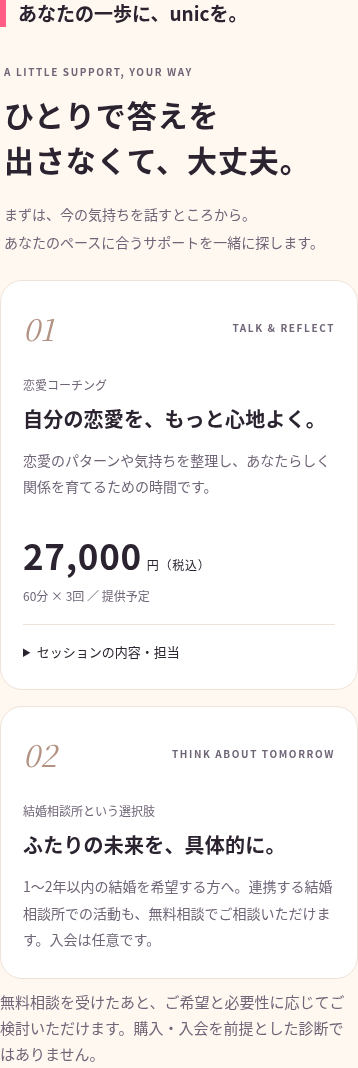
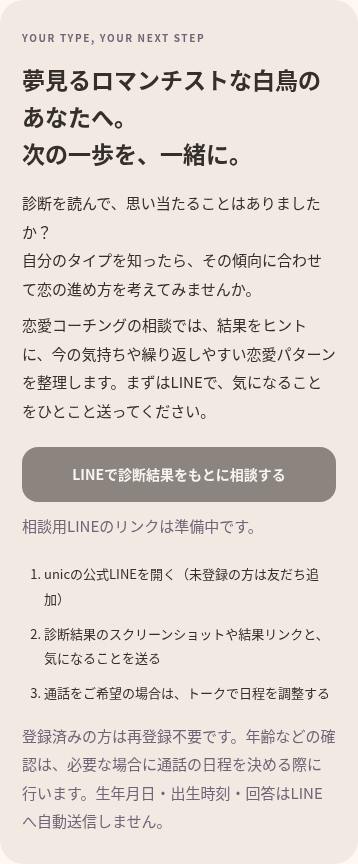
Focus diagnosis on LINE consultation and remove upfront pricing and Instagram sharing

diff --git a/index.html b/index.html
@@ -4,8 +4,8 @@
      like this one for free: https://netlify.new/?utm_campaign=loops&utm_source=ai-legible&utm_medium=owned&utm_content=comment&utm_id=bcebbb29-1c5e-48c2-b967-ad1c6b567d90
      Netlify hosting facts for this site: static/SSR served via Netlify Edge. -->
 <meta name="viewport" content="width=device-width, initial-scale=1, viewport-fit=cover">
-<title>unic LOVE TYPE 12｜恋愛タイプ診断</title>
-<meta name="description" content="恋をもっと、あなたらしく。自分を知って、相手を知って、次の一歩まで分かる恋愛診断。">
+<title>あなたの恋、どんなタイプ？｜unic MEET 恋愛タイプ診断</title>
+<meta name="description" content="あなたの恋愛タイプと相性を知り、自分に合う恋の進め方を見つける10問の無料診断。結果をもとにLINEで相談できます。">
 <link rel="preconnect" href="https://fonts.googleapis.com"><link rel="preconnect" href="https://fonts.gstatic.com" crossorigin>
 <link href="https://fonts.googleapis.com/css2?family=Zen+Maru+Gothic:wght@500;700;900&display=swap" rel="stylesheet">
 <style>:root{--bg:#FFF8F1;--card:#FFFFFF;--ink:#2B2430;--sub:#6F6577;--line:#EFE3D8;--pink:#FF5C86;--line-green:#06C755;color-scheme:light dark}
@@ -139,7 +139,6 @@ a{color:inherit}
 .ptable .animal{width:58px;height:58px;max-width:100%}
 .thumbs>div{aspect-ratio:1/1}
 button:disabled{opacity:.55;cursor:default;box-shadow:none}
-#story-output img{display:block;width:100%;max-width:270px;height:auto;margin:16px auto;border-radius:16px}
 .ans button,.btn{min-height:48px}
 /* Quiet, editorial service presentation */
 .form select,.form input[type=text]{width:100%;font:inherit;padding:12px;border:2px solid var(--line);border-radius:12px;background:var(--bg);color:var(--ink);margin-top:6px}
@@ -155,6 +154,7 @@ button:disabled{opacity:.55;cursor:default;box-shadow:none}
 .consult-card{padding:28px 22px;background:#f1e9e2;color:#352f2b;border-radius:24px}.consult-card h3{font-size:23px;margin:14px 0 18px;line-height:1.6}.consult-card p{line-height:1.9}.consult-card .btn{background:#38332f;color:#fff;box-shadow:none;margin-top:22px;font-size:14px}
 .calendar-card{background:var(--card);border:1px solid var(--line);border-radius:22px;padding:22px 18px}.birth-pillars{display:grid;grid-template-columns:repeat(4,1fr);gap:6px;margin:20px 0}.birth-pillars>div{text-align:center;background:var(--bg);padding:13px 2px;border-radius:12px}.birth-pillars small{display:block;font-size:11px;color:var(--sub)}.birth-pillars strong{display:block;font-size:19px;line-height:1.4;overflow-wrap:anywhere;margin-top:6px}.stem-reading{display:flex;gap:15px;align-items:center;border-top:1px solid var(--line);padding:22px 0 16px}.stem-sign{font-family:serif;font-size:48px;color:#ab806c}.stem-reading h3{font-size:15px;line-height:1.8}.calendar-details{font-size:12px;border-top:1px solid var(--line);margin-top:18px;padding-top:14px}.calendar-details summary{cursor:pointer;color:var(--sub)}.calendar-details p{font-size:12px!important;line-height:1.9;margin-top:10px}.boundary-note{font-size:12px!important;background:var(--bg);border-radius:10px;padding:12px}
 .action{background:var(--card);border:1px solid var(--line);border-radius:22px;padding:24px 22px}.action h3{font-size:21px;line-height:1.6;margin-bottom:12px}.action p{font-size:14px;line-height:1.9;color:var(--sub)}
+.line-steps{padding-left:22px;margin:22px 0 16px;display:grid;gap:10px;font-size:13px;line-height:1.9}.unic-about{border-top:1px solid var(--line);padding-top:28px}.unic-about h2{border:0;padding:0;font-size:22px;margin:12px 0}.unic-about>p:not(.eyebrow){font-size:14px;color:var(--sub);line-height:1.95}
 </style></head>
 <body><div id="app"></div>
 <script src="site-config.js"></script>
@@ -164,7 +164,7 @@ button:disabled{opacity:.55;cursor:default;box-shadow:none}
 /* ===== 設定 ===== */
 const CONFIG={
   SHARE_URL:'',            // 公開後のURLを入れるとLINE共有にそのURLが入ります（空なら現在のURL）
-  LINE_OA_URL:'',          // LINE公式アカウントの友だち追加URL（例: https://lin.ee/xxxx）。空ならボタン非表示
+  LINE_OA_URL:'',          // LINE公式アカウントの友だち追加URL（例: https://lin.ee/xxxx）。空なら準備中の無効ボタン
   LINE_OA_LABEL:'unicの公式LINEに登録する',
   BOOKING_URL:'',
   COACH_CREDENTIAL:'',
@@ -613,7 +613,7 @@ function resultUrl(){
   const u=new URL(baseUrl());u.searchParams.set('type',T[st.res.type.n].id);u.searchParams.set('sub',T[st.res.sub.n].id);return u.href;
 }
 function lineHref(text){return 'https://line.me/R/msg/text/?'+encodeURIComponent(text);}
-function toolText(){return 'unic LOVE TYPE 12｜恋をもっと、あなたらしく。\n10問でわかる、あなたの恋愛タイプ診断🐰🦁🐺\n自分を知って、相手を知って、次の一歩まで。\n'+baseUrl();}
+function toolText(){return 'あなたの恋、どんなタイプ？｜unic MEET\n恋愛攻略のヒントが見つかる、10問の無料タイプ診断🐰🦁🐺\n恋愛傾向と相性を知って、自分に合う恋の進め方を見つけよう。\n'+baseUrl();}
 function resText(t){return `私は「${t.e} ${t.nm}」でした！\n${t.catch}\nサブタイプ：${T[st.res.sub.n].nm}\n共有された恋愛タイプの解説を見る👇\n${resultUrl()}`;}
 function toast(m){const d=document.createElement('div');d.className='toast';d.textContent=m;document.body.appendChild(d);setTimeout(()=>d.remove(),1800);}
 function copy(text){
@@ -625,11 +625,11 @@ function copy(text){
 
 function intro(){
   return `<div class="hero">${IMGS.logo?`<img class="logo" src="${IMGS.logo}" alt="unic LOVE TYPE 12">`:'<h1>unic LOVE TYPE 12</h1>'}
-  <h1 class="catch">恋をもっと、<br>あなたらしく。</h1>
-  <p class="lead">自分を知る → 自分に合う相手を知る<br>→ 今やるべき一歩まで、まとめてわかる恋愛診断です。</p>
+  <h1 class="catch">あなたの恋、<br>どんなタイプ？</h1>
+  <p class="lead">恋愛攻略のヒントが見つかる、10問の無料診断。<br>恋愛傾向と相性を知って、<br>あなたに合う恋の進め方を見つけよう。</p>
   <div class="thumbs">${T.map(t=>`<div style="--c:${t.c}">${im(t.id)}</div>`).join('')}</div>
   <div class="meta"><span>全10問・約3分＋生年月日入力</span><span>無料</span><span>男女どちらもOK</span></div>
-  <button class="btn" data-a="start">診断をはじめる</button>
+  <button class="btn" data-a="start">自分の恋愛タイプを診断する</button>
   <a class="btn line" target="_blank" rel="noopener" href="${lineHref(toolText())}">この診断をLINEで送る</a>
   <button class="btn ghost small" data-a="copytool">リンク文をコピー</button>
   <p class="note">※この診断は、恋愛傾向を楽しく知るためのオリジナルコンテンツです。心理学的に検証された心理検査や、医学的・科学的診断ではありません。占い（四柱推命）も、未来や相性を断定するものではなく、自己理解のヒントとして使います。</p></div>`;
@@ -689,15 +689,15 @@ function recommendation(ans){
 }
 function actionHTML(r){
   const rec=r.recommendation;
-  const advice={coaching:['恋愛パターンを整理する時間','気になっているパターンを、出来事・気持ち・行動に分けて振り返ってみましょう。'],confidence:['あなたの魅力を言葉にすること','得意なことや大切にしている価値観を、ひとつずつ書き出すところから始めてみませんか。'],event:['新しい出会いへの小さな一歩','安心して参加できるイベントを一つ探すなど、無理のない範囲で出会いを増やしてみましょう。'],marriage:['結婚に向けた具体的な計画','希望時期に向けて、出会い方や活動ペースを整理してみましょう。まずは無料相談で状況を聞かせてください。'],consult:['自分に合った次の一歩を見つけること','急いで結論を出さず、今の気持ちを整理することから始めてみましょう。']}[rec.main];
+  const advice={coaching:['恋愛パターンを整理する時間','気になっているパターンを、出来事・気持ち・行動に分けて振り返ってみましょう。'],confidence:['あなたの魅力を言葉にすること','得意なことや大切にしている価値観を、ひとつずつ書き出すところから始めてみませんか。'],event:['新しい出会いへの小さな一歩','安心して参加できるイベントを一つ探すなど、無理のない範囲で出会いを増やしてみましょう。'],marriage:['結婚に向けた具体的な計画','希望時期に向けて、出会い方や活動ペースを整理してみましょう。無理なく進められる順番を考えるところから始めてみましょう。'],consult:['自分に合った次の一歩を見つけること','急いで結論を出さず、今の気持ちを整理することから始めてみましょう。']}[rec.main];
   const notes={coaching:'恋愛パターンのお悩みを選んだ回答からの提案です。',confidence:'自信や魅力の伝え方のお悩みを選んだ回答からの提案です。',event:'出会いを増やしたいという回答からの提案です。',marriage:'結婚希望時期と進め方のお悩みを選んだ回答からの提案です。',consult:'今回の希望時期・お悩みの回答を整理するための提案です。'};
-  return sec('今のあなたに必要なのは',`<div class="action"><h3>${advice[0]}</h3><p>${advice[1]}</p></div><p class="soft">${notes[rec.main]}性格や悩みを断定するものではありません。</p>`)+
-  sec('あなたの一歩に、unicを。',`<div class="service-intro"><p class="eyebrow">A LITTLE SUPPORT, YOUR WAY</p><h3>ひとりで答えを<br>出さなくて、大丈夫。</h3><p>まずは、今の気持ちを話すところから。<br>あなたのペースに合うサポートを一緒に探します。</p></div><div class="service-grid">${serviceCard('01','TALK & REFLECT','恋愛コーチング','自分の恋愛を、もっと心地よく。','恋愛のパターンや気持ちを整理し、あなたらしく関係を育てるための時間です。',`<div class="service-price">27,000<span>円（税込）</span></div><p class="service-spec">60分 × 3回 ／ 提供予定</p><details><summary>セッションの内容・担当</summary><ol><li>恋愛傾向の理解と課題の整理</li><li>コミュニケーションや行動の改善</li><li>実践の振り返りと今後の行動計画</li></ol><p>担当：御園拓也${CONFIG.COACH_CREDENTIAL?'<br>資格：'+esc(CONFIG.COACH_CREDENTIAL):''}</p></details>`)}${rec.main==='event'?serviceCard('02','MEET SOMEONE','婚活イベント','出会いに、少しのきっかけを。','新しい人と会い、会話を楽しむ時間。無理のない一歩から始めてみませんか。',''):''}${rec.main==='confidence'?serviceCard('02','FEEL LIKE YOU','美容・自分磨き','自分らしい魅力を、少しずつ。','身だしなみや伝え方を整え、あなた自身が気持ちよく過ごせるスタイルを見つけます。',''):''}${rec.marriage?serviceCard(rec.main==='event'||rec.main==='confidence'?'03':'02','THINK ABOUT TOMORROW','結婚相談所という選択肢','ふたりの未来を、具体的に。','1〜2年以内の結婚を希望する方へ。連携する結婚相談所での活動も、無料相談でご相談いただけます。入会は任意です。',''):''}</div><p class="soft">無料相談を受けたあと、ご希望と必要性に応じてご検討いただけます。購入・入会を前提とした診断ではありません。</p>`);
-
+  return sec('今のあなたに必要なのは',`<div class="action"><h3>${advice[0]}</h3><p>${advice[1]}</p></div><p class="soft">${notes[rec.main]}性格や悩みを断定するものではありません。</p>`);
 }
-function serviceCard(no,category,name,title,text,extra){return `<article class="service-card"><div class="service-card-top"><span>${no}</span><p class="eyebrow">${category}</p></div><p class="service-name">${name}</p><h3>${title}</h3><p class="service-description">${text}</p>${extra}</article>`;}
-function consultationHTML(){const url=safeHttps(CONFIG.BOOKING_URL);return sec('あなたが幸せな恋愛・結婚を叶えるために',`<div class="consult-card"><p class="eyebrow">FIRST STEP — 30 MINUTES</p><h3>まずは、話してみませんか。</h3><p>恋愛タイプ診断の結果をもとに、<br>今のあなたに必要なステップを<br>一緒に見つけませんか？</p><p>恋愛や婚活のお悩みを整理し、<br>あなたに合った次の一歩をご提案します。</p><p class="soft">無料Zoom恋愛・婚活相談／30分</p>${url?`<a class="btn" href="${esc(url)}" target="_blank" rel="noopener">無料Zoom恋愛・婚活相談を予約する</a>`:'<button class="btn" disabled>無料Zoom恋愛・婚活相談を予約する</button><p class="soft">予約受付は準備中です。</p>'}</div>`);}
-function officialLineHTML(){const url=safeHttps(CONFIG.LINE_OA_URL);return sec('unicの公式LINE',`<p>恋愛・婚活に役立つ情報を<br>公式LINEで無料配信中！</p>${url?`<a class="btn line" href="${esc(url)}" target="_blank" rel="noopener">unicの公式LINEに登録する</a>`:'<button class="btn line" disabled>unicの公式LINEに登録する</button><p class="soft">登録リンクは準備中です。</p>'}<p class="soft">診断結果の共有とは別の機能です。登録は任意。すでに登録済みの方は再登録不要です。診断結果は登録せずにすべて閲覧できます。</p>`);}
+function consultationHTML(){
+ const t=st.res?T[st.res.type.n]:null,url=safeHttps(CONFIG.LINE_OA_URL);
+ return sec('自分のタイプに合わせて、恋の進め方を考えよう',`<div class="consult-card"><p class="eyebrow">YOUR TYPE, YOUR NEXT STEP</p><h3>${t?esc(t.nm)+'のあなたへ。':'あなたの恋愛タイプをヒントに。'}<br>次の一歩を、一緒に。</h3><p>診断を読んで、思い当たることはありましたか？<br>自分のタイプを知ったら、その傾向に合わせて恋の進め方を考えてみませんか。</p><p>恋愛コーチングの相談では、結果をヒントに、今の気持ちや繰り返しやすい恋愛パターンを整理します。まずはLINEで、気になることをひとこと送ってください。</p>${url?`<a class="btn" data-role="consult-line" href="${esc(url)}" target="_blank" rel="noopener">LINEで診断結果をもとに相談する</a>`:'<button class="btn" data-role="consult-line" disabled>LINEで診断結果をもとに相談する</button><p class="soft">相談用LINEのリンクは準備中です。</p>'}<ol class="line-steps"><li>unicの公式LINEを開く（未登録の方は友だち追加）</li><li>診断結果のスクリーンショットや結果リンクと、気になることを送る</li><li>通話をご希望の場合は、トークで日程を調整する</li></ol><p class="soft">登録済みの方は再登録不要です。年齢などの確認は、必要な場合に通話の日程を決める際に行います。生年月日・出生時刻・回答はLINEへ自動送信しません。</p></div>`);
+}
+function officialLineHTML(){return sec('恋愛コーチング以外のご相談も',`<p>外見や自分磨きなど、ほかに気になることがある方も、公式LINEのトークで相談内容を送ってください。お話を伺ってから、必要なサポートを一緒に考えます。</p><p class="soft">LINE登録の有無にかかわらず、診断結果はすべて閲覧できます。</p>`);}
 function compatPanel(u,j){
   const c=compat(u,j),t=T[j],C=CONF[c.low];
   return `<div class="mini" style="margin-top:12px">${im(t.id)}<div><b>${t.e} ${t.nm}</b><small>${c.label}</small></div></div>
@@ -728,10 +728,10 @@ function resultHTML(){
   h+=shichuHTML(sh,c);
   h+=actionHTML(r);
   h+=consultationHTML();
-  h+=sec('LINE・Instagramで共有',`<a class="btn line" target="_blank" rel="noopener" href="${lineHref(resText(t))}">結果をLINEで送る</a><a class="btn ghost small" target="_blank" rel="noopener" href="${lineHref(toolText())}">診断そのものを友だちに送る</a><button class="btn" data-a="instagram">Instagramでシェア</button><p class="soft">ストーリーズ用画像を作成します。Instagramへ自動投稿はしません。</p><div id="story-output" aria-live="polite"></div>`);
+  h+=sec('友だちに診断結果を送る',`<a class="btn line" target="_blank" rel="noopener" href="${lineHref(resText(t))}">LINEで友だちに結果を送る</a><a class="btn ghost small" target="_blank" rel="noopener" href="${lineHref(toolText())}">診断そのものを友だちに送る</a><p class="soft">送る相手はLINEの画面で選べます。共有するのはタイプ名と一般的な解説・結果リンクです。生年月日や個別の回答は共有しません。</p>`);
   h+=officialLineHTML();
   h+=serviceLink();
-  h+=`<button class="btn ghost small" style="margin-top:24px" data-a="retry">もう一度診断する</button><p class="foot">unic LOVE TYPE 12 ／ 恋をもっと、あなたらしく。<br>※本診断は心理検査・医学的診断ではなく、自己理解のためのエンターテインメントです。</p>`;
+  h+=`<button class="btn ghost small" style="margin-top:24px" data-a="retry">もう一度診断する</button><p class="foot">unic MEET ／ あなたの恋、どんなタイプ？<br>※本診断は心理検査・医学的診断ではなく、自己理解のためのエンターテインメントです。</p>`;
   return h;
 }
 
@@ -778,7 +778,6 @@ function onClick(e){
   else if(a==='addbirth'){st.screen='birth';render();}
   else if(a==='retry'){history.replaceState(null,'',baseUrl());st.screen='intro';st.pos=0;st.ans=[];st.birth=null;st.res=null;render();}
   else if(a==='copytool') copy(toolText());
-  else if(a==='instagram') makeStory().catch(()=>toast('画像を作成できませんでした。もう一度お試しください。'));
   else if(a==='pick'){
     const j=+b.dataset.j;
     document.querySelectorAll('#pt button').forEach(x=>x.classList.toggle('on',x===b));
@@ -786,7 +785,7 @@ function onClick(e){
   }
 }
 
-function serviceLink(){return `<a class="btn" style="margin-top:24px" href="https://quiet-pasca-d4a0c0.netlify.app/" target="_blank" rel="noopener">unicのサービスを詳しく見る</a>`;}
+function serviceLink(){return `<section class="sec unic-about"><p class="eyebrow">ABOUT UNIC MEET</p><h2>恋を、自分らしく進めるために。</h2><p>unic MEETは、恋愛の悩みや「これからどうしたい？」に向き合うきっかけを届けます。タイプ診断を入口に、対話を通してあなたに合う次の一歩を考えます。</p><a class="btn ghost small" style="margin-top:18px" href="https://quiet-pasca-d4a0c0.netlify.app/" target="_blank" rel="noopener">unicのサービスを詳しく見る</a></section>`;}
 function parseShared(search){
   const p=new URLSearchParams(search);if(!p.has('type')&&!p.has('sub'))return null;
   if(p.getAll('type').length!==1||p.getAll('sub').length!==1)return {invalid:true};
@@ -809,4 +808,4 @@ if(typeof document!=='undefined'&&document.getElementById('app')){
   render();
 }
 
-</script><script src="story.js"></script></body></html>
+</script></body></html>

diff --git a/site-config.js b/site-config.js
@@ -1,6 +1,6 @@
 // 公開するURL・確認済み資格名だけを設定。秘密情報は記載しないでください。
 window.UNIC_CONFIG = {
-  BOOKING_URL: '', // 無料Zoom相談のHTTPS予約URL。空欄は準備中表示。
+  BOOKING_URL: '', // 将来の通話予約用。現在の画面では使用せず、LINEで日程を調整します。
   LINE_OA_URL: '', // 既存の婚活イベント用公式LINEのHTTPS登録URL。
   COACH_CREDENTIAL: '' // 正式名称の確認後に設定。未確認の資格名は表示しません。
 };

diff --git a/改修報告.md b/改修報告.md
@@ -1,40 +1,26 @@
-# unic MEET 改訂報告（2026-10-28）
+# 2026-10-29 改修報告
 
-## 完了した変更
-1. 前回の全身画像を、元のイラストに近い顔・上半身中心の12タイプへ差し替え。1254×1254pxの描き起こしをWebP化、384px版も用意。キャラクター名・解説・回答によるタイプ分類は維持。
-2. 各動物の下のunic MEETラベルを削除。Instagram画像でも動物下のラベルを削除し、上部のサイトロゴのみ維持。
-3. 「イベントで使えるトークカード」と自己紹介活用の案内を削除。
-4. 結果文章コピー・結果URLコピーを削除。結果のLINE共有とInstagram画像保存・OS共有は維持。
-5. 四柱推命の実計算を追加。年柱・月柱・日柱と日干の一般的な補足、出生時刻がある場合は時柱を表示。年は立春、月は各節入り時刻を使い、出生地のIANAタイムゾーン・夏時間を換算。
-6. 出生時刻不明の節入り当日は年柱・月柱を決めつけず候補を表示。日柱は出生地の日付を使い、時柱は推測しない。日界0時・時計の時刻採用・真太陽時補正なしの流派条件を表示。
-7. 診断結果内のサービス紹介を白・ベージュ・落ち着いた文字色のカードへ整理。金額・回数・担当・セッション詳細を分け、無料Zoom相談の入口を維持。
+## 反映内容
+- タイトル・導入文・共有文を「あなたの恋、どんなタイプ？」と、恋愛攻略のヒントを見つける目的が伝わる文言に更新。科学的正確性や恋愛成就を保証しません。
+- タイプ判定、12動物、四柱推命、10問を維持。価格や直接サービス申し込みを結果から外し、タイプに合わせた恋愛コーチングの相談へ接続。
+- 27,000円、エステ・結婚相談所の直接提案、コーチングの有料コース詳細を結果から削除。
+- 無料体験・1,980円・4,980円・戦略ミーティングは検討事項として扱い、診断画面で確定したサービス名や価格を表示しない。
+- 相談は既存公式LINEを使い、まずスクリーンショットや結果リンク＋悩みを送ってもらう案内に変更。新アカウント・エルメ自動連携・事前の年齢アンケートは作らない。
+- 追加の確認は必要な通話調整時に行う案内。生年月日・回答をフォームやLINEに自動引き継ぎしない。
+- 友達へのLINE結果共有を維持。Instagram用画像生成・OS共有・story.jsを廃止。
+- 下部にunic MEETの紹介と「unicのサービスを詳しく見る」を掲載。リンク先は従来URLのまま。
 
-## リンク先のサービス紹介サイトについて
-ユーザーが「ダサい」と指摘した対象は、診断内ではなくリンク先 https://quiet-pasca-d4a0c0.netlify.app/ と確認済みです。この別サイトへの取得要求はHTTP 403で拒否され、既存のHTML・デザイン・文章を確認できていません。この別サイトの改修は未実施です。
-同サイトのHTML/CSS/画像一式、または作業環境からのアクセス許可が必要です。文章・料金・実績・予約先を推測して別のサイトへ作り替えることはしていません。
-環境設定にはアクセス許可の追加案を保存します。設定の保存・公開はNetlifyサイトの公開とは別操作です。
+## 検証
+- 実際に10問を完了し、結果・LINE共有文・専用URLを確認。
+- 全12タイプが出現する回答例、25通りの希望時期×悩みでタイプ不変・価格や直接申し込みが出ないことを確認。
+- 保存データのない別ブラウザで同じタイプ・サブタイプ。全12共有リンク、不正ID、診断再開を確認。
+- Instagramと有料価格・コピー・イベント用トークカードの非表示。
+- 公式LINE未設定時の無効ボタン、設定済み時の正しい友だち追加URLを確認。
+- 320〜1440pxで横はみ出しなし、JavaScriptエラーなし。
+- 四柱推命・タイムゾーン・日付検証、私的な入力がリクエスト・保存・共有に入らないこと、12画像と相性選択144通りの対応を再確認。
+- LINEアプリの実機送信・友だち登録・実際の相談受付は未確認。
 
-## 四柱推命の検証
-- npmの署名情報（integrity）とTLS検証を維持してlunar-javascript 1.7.7を導入し、MITライセンスを同梱。
-- 同ライブラリの八字・節気テスト41件が通過。
-- 立春・啓蟄直前直後で年柱・月柱が切り替わることを確認。
-- 同じ瞬間の日本時間／中国時間で年・月柱が一致することを確認。
-- NYの夏時間開始の存在しない時刻・終了の重複時刻を検証。
-- 日柱120件を独立したグレゴリオ暦JDN式と照合。
-- 独立したastronomy-engine 2.1.19で1900・1950・2000・2024年の節入り48件を照合。最大差24.014秒。天文モデルの差があり、計算上の境界付近や流派差は結果画面に明記。
-- ブラウザ上の生年月日・タイムゾーン入力から実際の柱を表示。未知時刻の候補表示、個人情報のリクエスト・ストレージ・共有結果への非混入を確認。
-参考サイト https://aisare-fourpillars.info/ はHTTP 403のため内容や結果を照合できず、サイトの文章や独自コンテンツはコピーしていません。
-
-## 診断・共有・表示の検証
-既存の8問タイプ分類＋2問サービス提案を維持。12タイプ到達性、25通りのサービス回答でタイプ不変、出生情報でタイプ不変を確認。
-全12共有ページ、新規ブラウザのタイプ・サブタイプ一致、不正IDの案内、診断再開を検証。
-全12タイプの1080×1920px Instagram PNG生成と保存、Web Share APIのファイル引き渡しをモックで検証。
-トップ・12個人結果・144通りの相性選択で新画像の対応を検証。
-320・375・390・412・1440px幅で横はみ出しなし。四柱推命・サービス紹介のモバイル表示、不要要素の削除を確認。
-実機iPhone/Android・LINE/Instagramアプリ・予約実行・公式LINE実登録は未確認。
-
-## 未完了・公開
-- リンク先サービス紹介サイトのデザイン改修：既存ファイル／アクセス待ち。
-- 予約URL、既存公式LINE登録URL、確認済み資格名は引き続き未設定。
-- タイプ別OGPプレビューは未実装。
-- 今回の更新はGitHubへ保存します。Netlifyの既存公開サイトの上書きは行いません。今回の最新版ZIPを使い、内容確認後に手動反映してください。
+## 残る設定・別サイト
+公式LINE URLは未設定です。URLを受け取って設定するまでは準備中ボタンです。
+リンク先サービスサイトは別プロジェクトです。従来アクセスがHTTP 403で、今回もそのサイトの内容や1,980円の価格表示は変更していません。
+Netlifyへの本番公開は行わず、GitHubに最新版を保存します。公開は確認後に既存サイトへアップロードしてください。

diff --git a/README.md b/README.md
@@ -1,40 +1,39 @@
-# unic MEET 恋愛タイプ診断
+# unic MEET 恋愛タイプ診断（2026-10-29）
 
-2026-10-28 改訂版。既存のタイプ名・診断の一般解説・10問の判定ロジックを維持し、元のキャラクターに近いポートレートへ調整しました。
+「あなたの恋、どんなタイプ？」を入口に、タイプを知る → 自分に合う恋の進め方を考える → LINEで結果をもとに相談、の流れに変更しました。
 
-## 今回の変更
-- 12種類を元の表情・衣装・顔中心の構図に近づけて再生成。1254×1254px WebP＋384px軽量版。
-- 動物ごとの下のunic MEET表示、イベント用トークカード、結果文章コピー／結果URLコピーボタンを削除。
-- 四柱推命をローカル実装。年柱・月柱・日柱、出生時刻が分かる場合は時柱と、日干の一般的な補足を表示。
-- 出生地のIANAタイムゾーン・夏時間を反映。出生時刻不明の節入り日は年柱・月柱の候補を併記。時柱は推測しない。
-- 診断内のサービス紹介を落ち着いたカードへ整理。
-- ユーザーがデザイン変更を希望したリンク先 https://quiet-pasca-d4a0c0.netlify.app/ はHTTP 403で取得不可のため、その別サイト自体の改修は未着手。
+## 現在の導線
+- 恋愛攻略のヒントを探す10問の無料タイプ診断。8問で動物、残り2問で次の一歩の参考を表示。
+- 結果に27,000円のコーチング料金、エステ・結婚相談所への直接申し込み、Instagram画像生成・OS共有は出しません。
+- 相談の名称・体験価格は未決定のため、無料Zoom・1,980円・4,980円・戦略ミーティングなどを確定した案内として表示しません。
+- 相談は既存の公式LINEから。登録済みの方は再登録不要。結果スクショや結果リンクと、気になることを自分で送ってもらう運用。
+- 年齢などの追加確認は必要な通話調整時に行う案内。新しい事前アンケートは追加しません。
+- 診断結果の閲覧はLINE登録不要。生年月日・出生時刻・回答はブラウザ内のみで処理し、自動転送・保存しません。
+- 友達に結果をLINEで送る機能を維持。URLはタイプ／サブタイプのみ。紹介とサービスサイトへのボタンを下部に掲載。
+- 12タイプの元のキャラに近い個別画像と、実装済み四柱推命を維持。
 
-## 四柱推命の計算基準
-lunar-javascript 1.7.7（MIT）の節入り時刻を出生地の瞬間へ換算して年・月柱を計算。日柱は出生地の民間時の0時切り替え。時柱も出生地の時計を使い、23時台の時干は当日の日干から算出。真太陽時補正なし。対応生年1900〜2099年（入力は未来日不可）。流派によって結果が異なることを結果の計算基準に表示しています。
-参考サイト https://aisare-fourpillars.info/ は環境からHTTP 403で取得できず、内容の転載・API利用・同サイトとの照合は行っていません。実際の暦計算から結果を出し、架空の命式を表示しません。
-入力はブラウザ内だけで処理し、サーバー送信・永続保存・共有URLへの記載なし。
+## 必須設定
+site-config.js の LINE_OA_URL に、既存の婚活イベント用公式LINEのHTTPS友だち追加URLを設定してください。現在は未設定で、相談ボタンは準備中です。
+BOOKING_URL と COACH_CREDENTIAL は将来用に保持していますが、現在の診断画面には使用しません。
 
-## 起動と検証
-既存の /workspace/unic-meet を使用。明示依頼なしでworktreeを作成しません。ビルド・依存導入は不要。配信に必要な暦ライブラリはvendor/に同梱しています。
+## 起動・検証
+既存の/workspace/unic-meetを使用。隔離済みのため明示依頼なしにworktreeは作成しません。静的サイトでビルド・依存導入は不要です。
 
 ```
-python -m http.server 8766 --bind 127.0.0.1
+python -m http.server 8767 --bind 127.0.0.1
 node tests/logic.cjs
 node tests/calendar.cjs
 node tests/browser.cjs
 node tests/calendar-browser.cjs
-node tests/share.cjs
 node tests/assets.cjs
 ```
-ブラウザテストは起動済みサーバー、環境付属Playwrightと/usr/bin/chromiumを使用します。実機・Safari・LINE/Instagramアプリでの検証は別途必要です。
+ブラウザテストは起動済みサーバー、環境付属Playwright・/usr/bin/chromiumを使用します。実機iPhone/AndroidやLINEアプリ操作を保証するものではありません。
 
-## サイト設定
-site-config.js の BOOKING_URL（無料Zoom予約）、LINE_OA_URL（既存公式LINE）、COACH_CREDENTIAL（確認済み資格名）を設定できます。未設定の予約・登録ボタンは準備中の無効表示。資格名は未設定なら非表示です。
+## 四柱推命
+lunar-javascript 1.7.7（MIT）を同梱。年・月は節入りの瞬間、日柱は出生地の日界0時、時柱は出生地の時計の時刻（23時台も当日の日干使用）、真太陽時補正なし。IANAタイムゾーン・夏時間を換算。時刻不明の節入り日は候補併記、時柱は推測しません。流派差と境界の計算モデル差を結果に表示しています。
+41 upstream tests、120独立JDN日柱、48独立天文節入り（最大差24.014秒）を検証。THIRD-PARTY.md参照。
 
-## 配信対象
-index.html、site-config.js、story.js、four-pillars.js、vendor/、assets/logo.jpg、assets/type-*.webpを同じルートから配信。
-前回の更新用ZIPには新しいfour-pillars.jsとvendor/が含まれないため、今回の最新版を使用してください。
-公開前に既存NetlifyのDeployを控え、内容確認後、既存サイトへアップロードしてください。GitHubへの保存とNetlifyへの公開は別です。
-
-素材対応：assets-manifest.json／ASSETS-NEEDED.md。改修・テスト詳細：改修報告.md。ライセンス：THIRD-PARTY.md。
+## 配信
+index.html、site-config.js、four-pillars.js、vendor/、assets/logo.jpg、assets/type-*.webpが必要です。story.jsは廃止しました。
+GitHubの最新版ZIPを使い、内容確認後に既存Netlifyサイトへ反映してください。GitHub保存とNetlify公開は別です。
+リンク先quiet-pasca-d4a0c0.netlify.appのサービス紹介サイト自体は別プロジェクトで、既存コードの取得がHTTP 403で未完了です。この改修ではその価格・名称を変更していません。

diff --git a/LINE運用メモ.md b/LINE運用メモ.md
@@ -1,0 +1,16 @@
+# LINE運用メモ（手動運用・自動配信未実装）
+
+## 結果を送ってもらう
+「診断結果を見ながらお話しできます。結果のスクリーンショットや結果リンクと、今気になっていることを送ってください。」
+
+## 結果が届いていない場合
+「まだ診断を受けていない方は、こちらからご利用ください。結果画面の『LINEで友だちに結果を送る』またはスクリーンショットを使って、結果を教えてください。」
+診断URL：https://marvelous-arithmetic-6710b6.netlify.app/
+
+## 日程を調整する場合
+悩みを聞いたうえで、必要なら通話を案内。年齢などの確認も、この段階で必要最小限を確認します。
+外見などコーチング以外のお悩みはLINEで内容を伺い、担当者が必要なサポートを案内する運用です。10分Zoomなどの運用案は、担当・受付体制・日程を確認してから個別にご案内ください。
+
+## 注意
+この文書は運用者向けの例文です。サイトが自動送信・自動引き継ぎ・予約確定をする機能ではありません。友だち追加しても診断結果は自動で届きません。
+無料／1,980円などの体験価格・相談名称・通話時間は確定後に案内。27,000円の継続コースは診断結果で直接販売せず、必要性・本人の希望を確認してから詳細を説明します。
